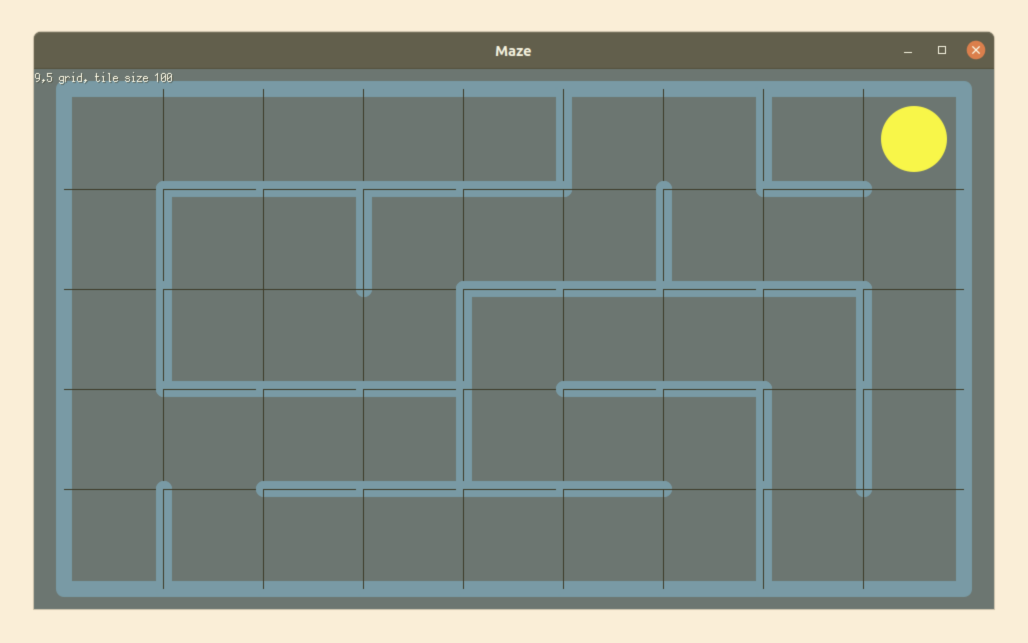
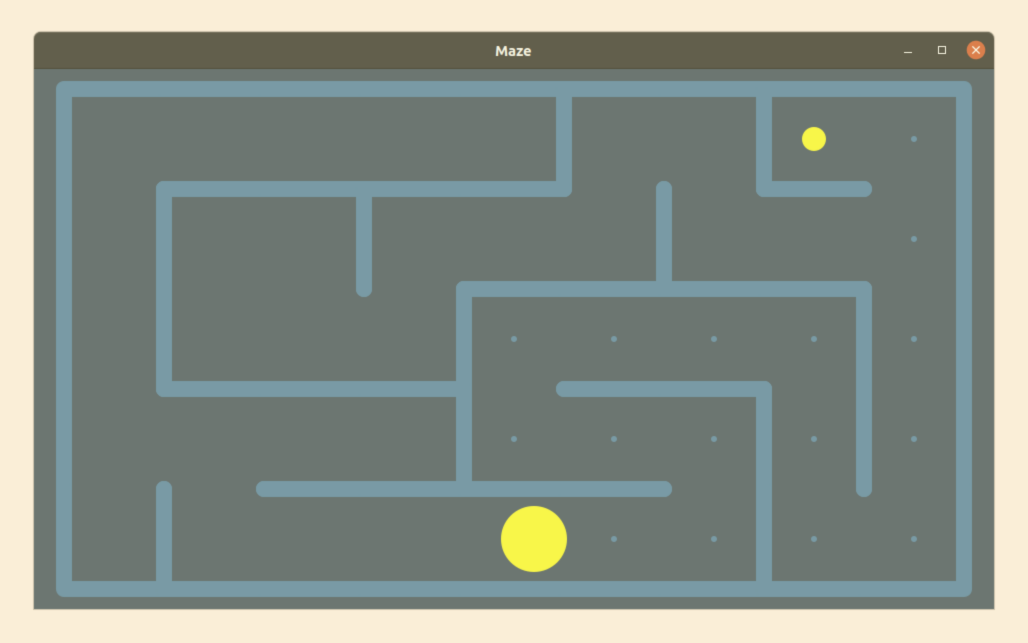
smoothstep

Changed region(s): [[0.8405, 0.1555, 0.9339, 0.2799], [0.4669, 0.7776, 0.5603, 0.902], [0.7782, 0.1866, 0.8093, 0.2488]]

diff --git a/maze/puck.go b/maze/puck.go
@@ -23,8 +23,11 @@ type PuckState int
 type Puck struct {
 	state PuckState
 
-	tile *Tile // tile we are sitting on
-	home *Tile // tile we started on
+	tile                   *Tile   // tile we are sitting on
+	home                   *Tile   // tile we started on
+	dest                   *Tile   // tile we are lerping to
+	srcX, srcY, dstX, dstY float64 // positions for lerp
+	lerpstep               float64
 
 	puckImage *ebiten.Image
 
@@ -55,6 +58,13 @@ func NewPuck(start *Tile) *Puck {
 func (p *Puck) ThrowBallTo(targ *Tile) {
 	p.ball.ThrowTo(targ)
 
+	// if puck is lerping, stop it
+	if p.dest != nil {
+		p.tile = p.dest
+		p.x, p.y = p.tile.Position()
+		p.dest = nil
+	}
+
 	found := false
 	q := []*Tile{p.tile}
 	p.tile.parent = p.tile
@@ -75,7 +85,7 @@ func (p *Puck) ThrowBallTo(targ *Tile) {
 			}
 			tn := t.Neighbour(d)
 			if tn == nil {
-				continue
+				log.Fatal("open unwalled edge found in Puck BFS")
 			}
 			if tn.parent == nil {
 				tn.parent = t
@@ -95,32 +105,6 @@ func (p *Puck) ThrowBallTo(targ *Tile) {
 // 	return p.ball.Tile()
 // }
 
-/*
-function Util.BFS(tStart, tDst)
-  assert(tStart)
-  assert(tDst)
-  tStart.got:iterator(function(t) t.parent = nil end)
-  local q = {tStart}        -- push onto queue
-  tStart.parent = tStart   -- mark as itself
-  while #q > 0 do
-    local t = table.remove(q, 1)
-    assert(t)
-    if t == tDst then
-      return
-    end
-    for dir = 1, 4 do
-      local tn = t:neighbour(dir)
-      if tn and (not t:isWall(dir)) and (tn.parent == nil) then
-        tn.parent = t
-        q[#q+1] = tn
-        -- table.insert(q, tn) -- push to end of q
-      end
-    end
-  end
-  assert(false, 'BFS not found')
-end
-*/
-
 // Update the state/position of the Puck
 func (p *Puck) Update() error {
 
@@ -131,20 +115,34 @@ func (p *Puck) Update() error {
 		p.tile.marked = false
 	}
 
-	// if any of the neighbours are marked, move there
-	for d := 0; d < 4; d++ {
-		if p.tile.IsWall(d) {
-			continue
+	if p.dest == nil {
+		// if any of the neighbours are marked, move there
+		for d := 0; d < 4; d++ {
+			if p.tile.IsWall(d) {
+				continue
+			}
+			tn := p.tile.Neighbour(d)
+			if tn == nil {
+				log.Fatal("unwalled edge found in Puck Update")
+			}
+			if tn.marked {
+				p.dest = tn
+				p.srcX, p.srcY = p.tile.Position()
+				p.dstX, p.dstY = p.dest.Position()
+				p.lerpstep = 0.1
+				break
+			}
 		}
-		tn := p.tile.Neighbour(d)
-		if tn == nil {
-			continue
-		}
-		if tn.marked {
-			p.tile = tn
+	} else {
+		if p.lerpstep >= 1 {
+			p.tile = p.dest
 			p.tile.marked = false
 			p.x, p.y = p.tile.Position()
-			break
+			p.dest = nil
+		} else {
+			p.x = lerp(p.srcX, p.dstX, p.lerpstep)
+			p.y = lerp(p.srcY, p.dstY, p.lerpstep)
+			p.lerpstep += 0.1
 		}
 	}
 

diff --git a/maze/Util.go b/maze/Util.go
@@ -20,6 +20,49 @@ func lerp(v0 float64, v1 float64, t float64) float64 {
 	return (1-t)*v0 + t*v1
 }
 
+// SMOOTHSTEP from http://sol.gfxile.net/interpolation/
+func SMOOTHSTEP(x float64) float64 {
+	return (x) * (x) * (3 - 2*(x))
+}
+
+// SMOOTHERSTEP from http://sol.gfxile.net/interpolation/
+func SMOOTHERSTEP(x float64) float64 {
+	return (x) * (x) * (x) * ((x)*((x)*6-15) + 10)
+}
+
+func smoothstep(A float64, B float64, v float64) float64 {
+	v = SMOOTHERSTEP(v)
+	X := (B * v) + (A * (1.0 - v))
+	return X
+}
+
+/*
+// https://en.wikipedia.org/wiki/Smoothstep
+func smoothstep(edge0 float64, edge1 float64, x float64) float64 {
+	// Scale, bias and saturate x to 0..1 range
+	x = clamp((x-edge0)/(edge1-edge0), 0.0, 1.0)
+	// Evaluate polynomial
+	return x * x * (3 - 2*x)
+}
+
+func smootherstep(edge0 float64, edge1 float64, x float64) float64 {
+	// Scale, and clamp x to 0..1 range
+	x = clamp((x-edge0)/(edge1-edge0), 0.0, 1.0)
+	// Evaluate polynomial
+	return x * x * x * (x*(x*6-15) + 10)
+}
+
+func clamp(x float64, lowerlimit float64, upperlimit float64) float64 {
+	if x < lowerlimit {
+		x = lowerlimit
+	}
+	if x > upperlimit {
+		x = upperlimit
+	}
+	return x
+}
+*/
+
 // https://stackoverflow.com/questions/51626905/drawing-circles-with-two-radius-in-golang
 // https://en.wikipedia.org/wiki/Midpoint_circle_algorithm
 func drawCircle(img *ebiten.Image, x0, y0, r int, c color.Color) {

diff --git a/maze/ball.go b/maze/ball.go
@@ -3,8 +3,6 @@
 package maze
 
 import (
-	"math"
-
 	"github.com/fogleman/gg"
 	"github.com/hajimehoshi/ebiten/v2"
 )
@@ -15,6 +13,9 @@ type Ball struct {
 	targ *Tile // Tile we have been thrown to
 
 	ballImage *ebiten.Image
+
+	srcX, srcY, dstX, dstY float64 // positions for lerp
+	lerpstep               float64
 
 	x, y float64
 }
@@ -38,6 +39,9 @@ func NewBall(start *Tile) *Ball {
 // ThrowTo a target tile
 func (b *Ball) ThrowTo(t *Tile) {
 	b.targ = t
+	b.srcX, b.srcY = b.tile.Position()
+	b.dstX, b.dstY = b.targ.Position()
+	b.lerpstep = 0.05
 }
 
 // Tile getter for ball's location
@@ -48,14 +52,15 @@ func (b *Ball) ThrowTo(t *Tile) {
 // Update the state/position of the Ball
 func (b *Ball) Update() error {
 	// println("tile=", b.tile, "targ=", b.targ)
-	if b.tile != b.targ {
-		dx, dy := b.targ.Position()
-		// println("ball moving from", b.x, b.y, "to", dx, dy)
-		b.x = lerp(b.x, dx, 0.1)
-		b.y = lerp(b.y, dy, 0.1)
-		if math.Abs(dx-b.x) < float64(TileSize/4) && math.Abs(dy-b.y) < float64(TileSize/4) {
+	if b.targ != nil && b.tile != b.targ {
+		if b.lerpstep >= 1 {
 			b.tile = b.targ
+			b.targ = nil
 			b.x, b.y = b.tile.Position()
+		} else {
+			b.x = smoothstep(b.srcX, b.dstX, b.lerpstep)
+			b.y = smoothstep(b.srcY, b.dstY, b.lerpstep)
+			b.lerpstep += 0.05
 		}
 	}
 	return nil

diff --git a/maze/menu.go b/maze/menu.go
@@ -38,8 +38,7 @@ func NewMenu() *Menu {
 		NewLabel("MAZE", Acme.large),
 		NewTextButton("EASY", Acme.large, func() { GSM.Switch(NewGrid(6, 5)) }),
 		NewTextButton("NORMAL", Acme.large, func() { GSM.Switch(NewGrid(0, 0)) }),
-		NewTextButton("HARD", Acme.large, func() { GSM.Switch(NewGrid(0, 0)) }),
-		NewTextButton("HARDEST", Acme.large, func() { GSM.Switch(NewGrid(28, 14)) }),
+		NewTextButton("HARD", Acme.large, func() { GSM.Switch(NewGrid(28, 14)) }),
 	}
 
 	return s
@@ -50,7 +49,7 @@ func (s *Menu) Layout(outsideWidth, outsideHeight int) (int, int) {
 
 	xCenter := outsideWidth / 2
 	// create 6 vertical slots for 5 widgets
-	yPlaces := [6]int{} // golang gotcha: can't use len(s.widgets)
+	yPlaces := [5]int{} // golang gotcha: can't use len(s.widgets)
 	for i := 0; i < len(yPlaces); i++ {
 		yPlaces[i] = (outsideHeight / len(yPlaces)) * i
 	}
